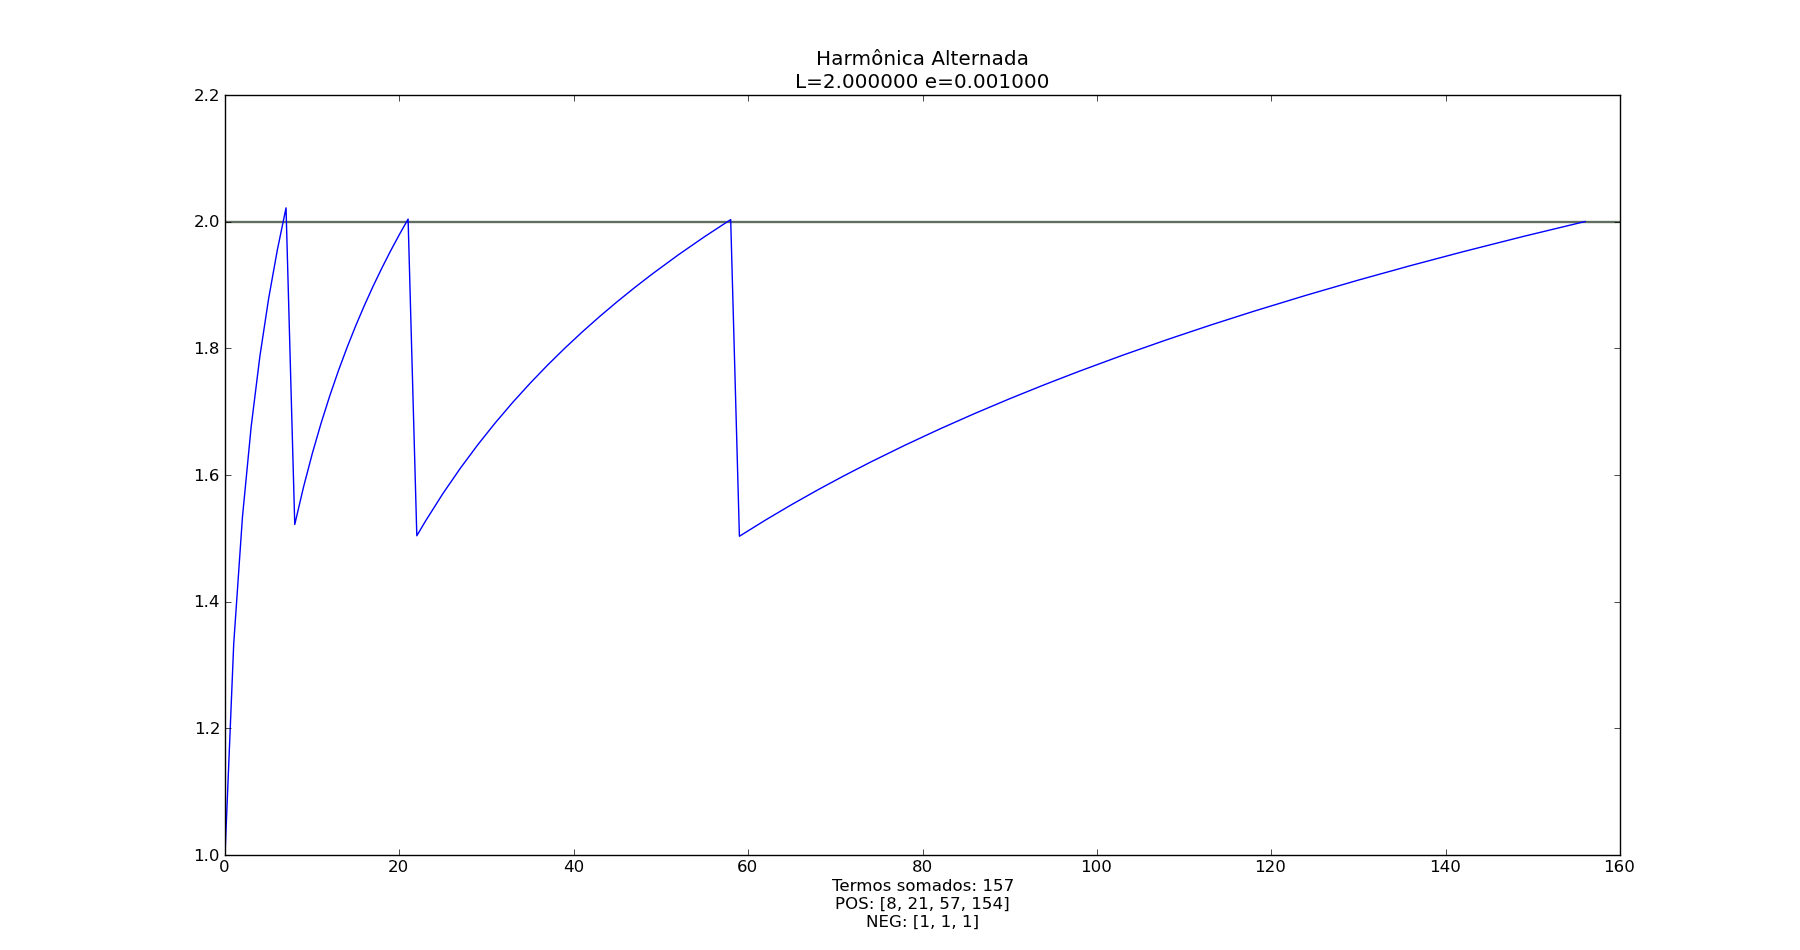
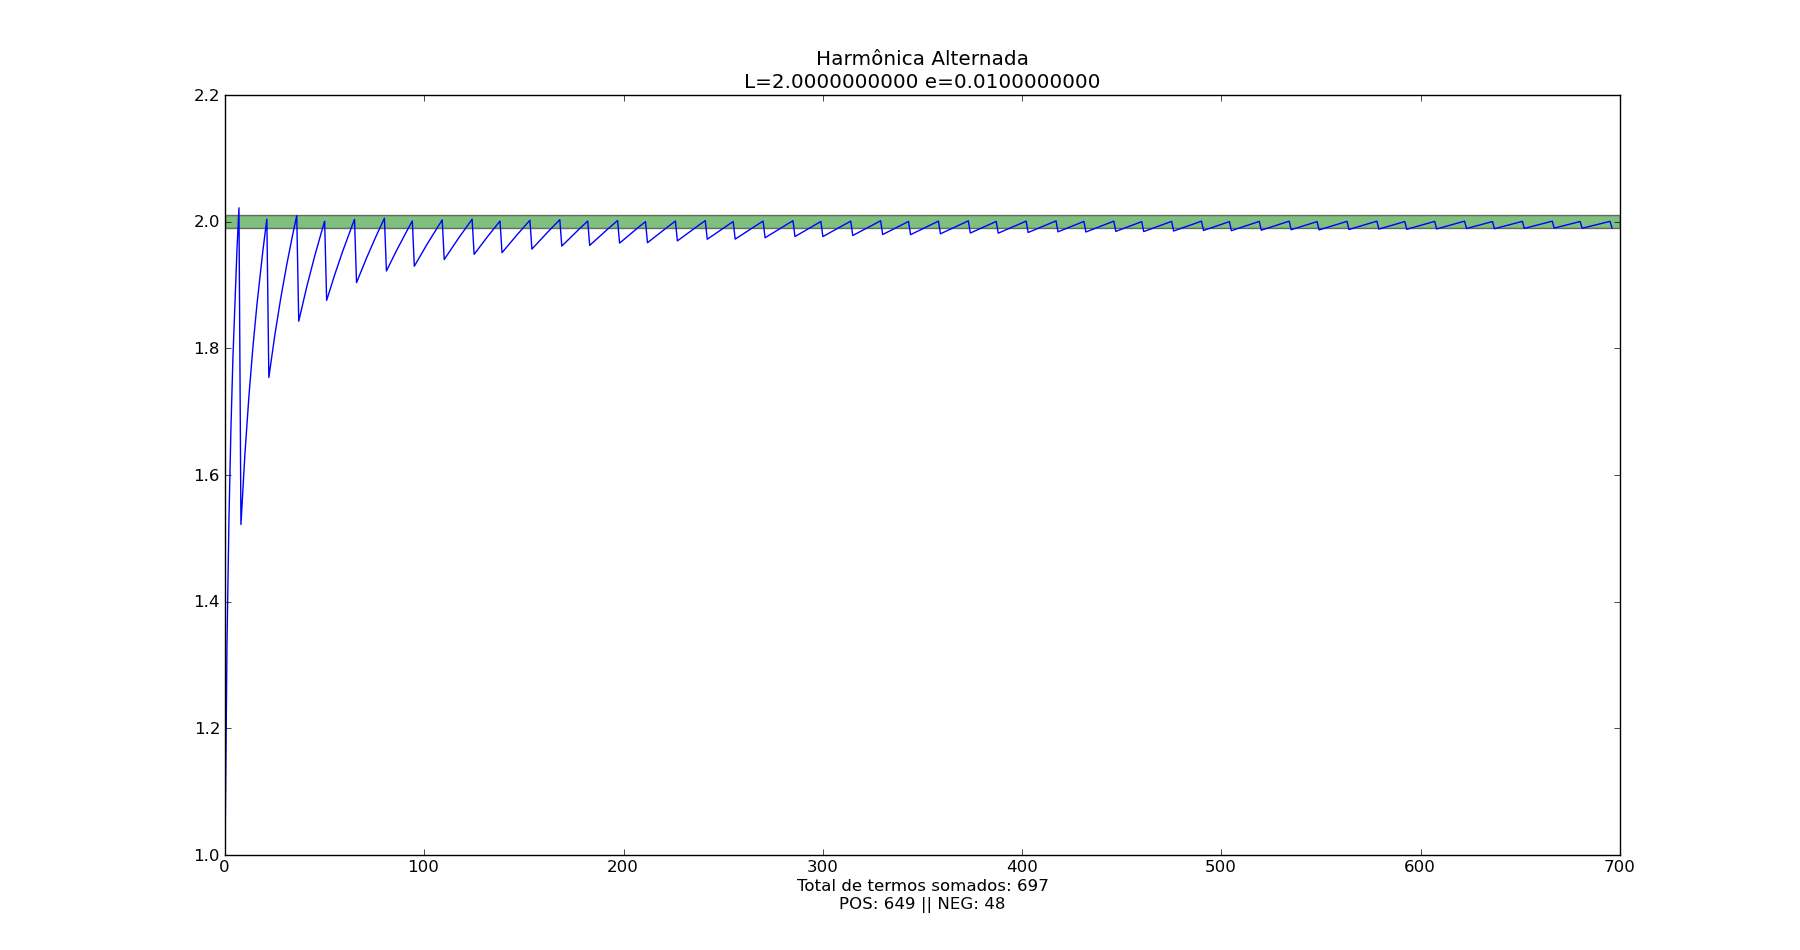
Validando as duas "viradas", positivas e negativas.

diff --git a/harmonica_alternada.py b/harmonica_alternada.py
@@ -22,41 +22,43 @@ def getImpar(n):
 
 # Entradas
 L = 2
-e = 0.001
+e = 0.01
 
-passouLimite = False
-isPositivo = True
-qtdTermosPositivos = 0
-qtdTermosNegativos = 0
-arrayPos = []
-arrayNeg = []
-plotSoma = []
 n = 0
 soma = 0
-while (max((soma - L), (L - soma)) > e):
+plotSoma = []
+arrayPos = []
+arrayNeg = []
+ponteiroPos = 0
+ponteiroNeg = 0
+qtdTermosPositivos = 0
+qtdTermosNegativos = 0
+isPositivo = True
+while (True):
     n += 1
-    if(isPositivo):
-        qtdTermosPositivos += 1   
+    if (isPositivo):
+        qtdTermosPositivos += 1
         soma += getTermo(getImpar(qtdTermosPositivos))
+        ponteiroPos = soma
     else:
         qtdTermosNegativos += 1
         soma += getTermo(getPar(qtdTermosNegativos))
+        ponteiroNeg = soma
     plotSoma.append(soma)
     if (soma > L):
         if(isPositivo):
             arrayPos.append(qtdTermosPositivos)
-        else:
-            qtdTermosPositivos = 0
         isPositivo = False
     else:
         if(not isPositivo):
             arrayNeg.append(qtdTermosNegativos)
-        else:
-            qtdTermosNegativos = 0
         isPositivo = True
+    if (((ponteiroPos > L) and (ponteiroPos < L+e)) and ((ponteiroNeg < L) and (ponteiroNeg > L-e))):
+        break
 
-plot(plotSoma)
-title("Harmônica Alternada \nL=%f e=%f".decode('utf-8') %(L,e))
-xlabel("Termos somados: %d\nPOS: %s\nNEG: %s" % (n, arrayPos, arrayNeg))
+print arrayPos, arrayNeg
+title("Harmônica Alternada \nL=%.10f e=%.10f".decode('utf-8') %(L,e))
+xlabel("Total de termos somados: %d\nPOS: %s || NEG: %s" % (n, qtdTermosPositivos, qtdTermosNegativos))
 axhspan(L+e, L-e, facecolor='g', alpha=0.5)
+plot(plotSoma)
 show()
